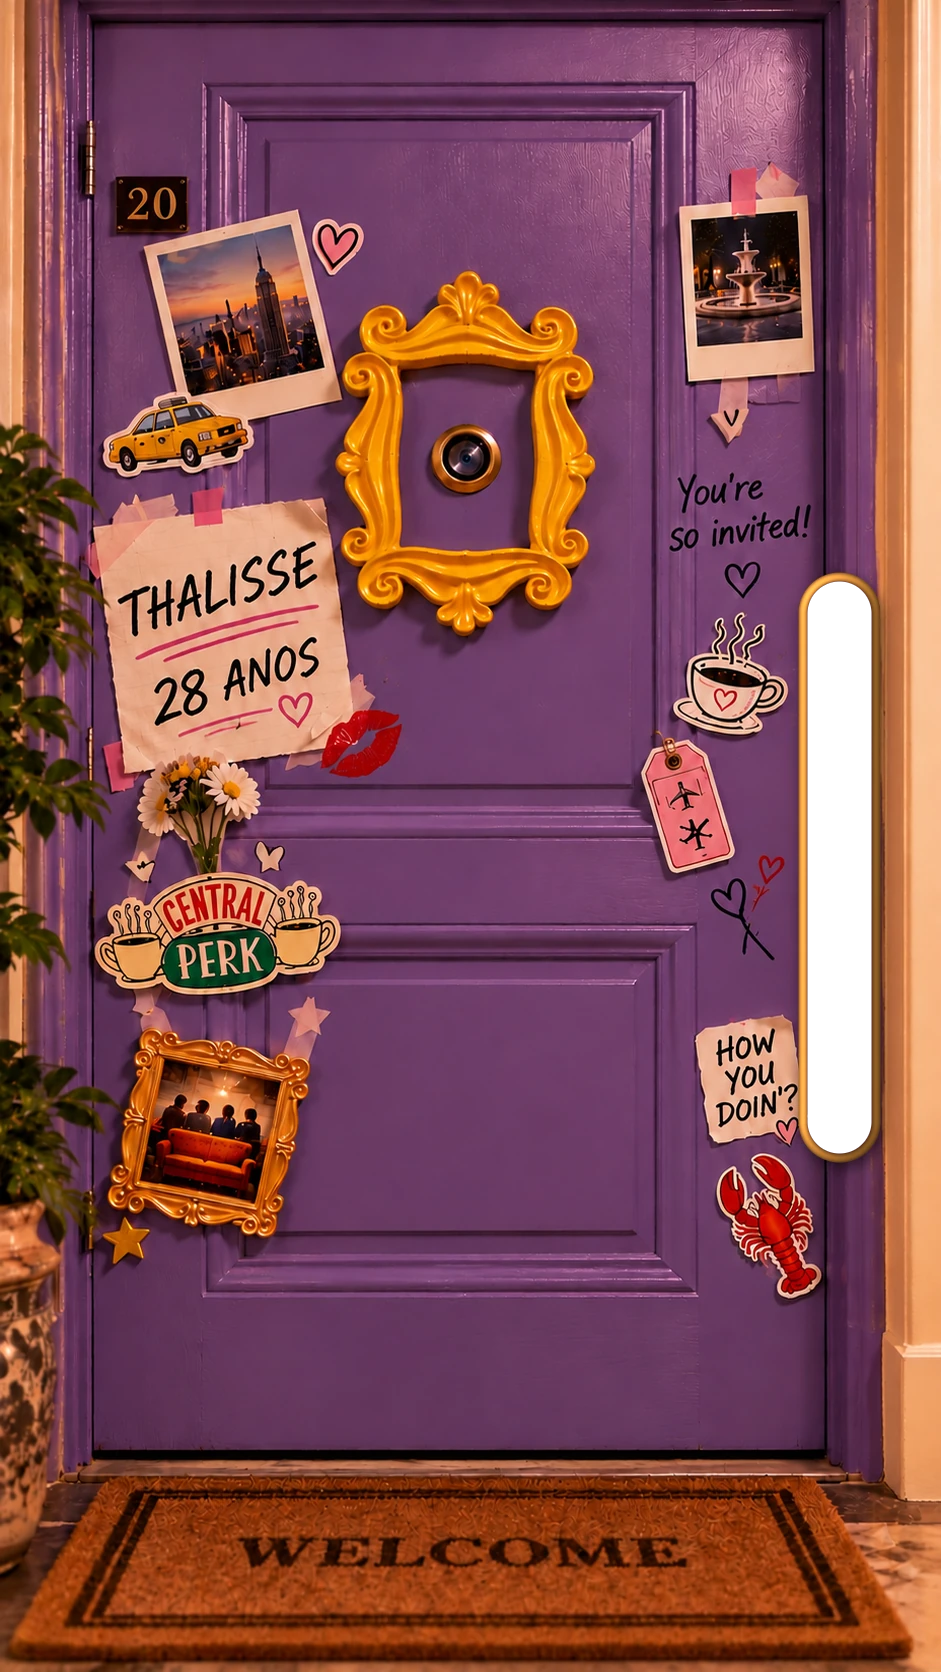
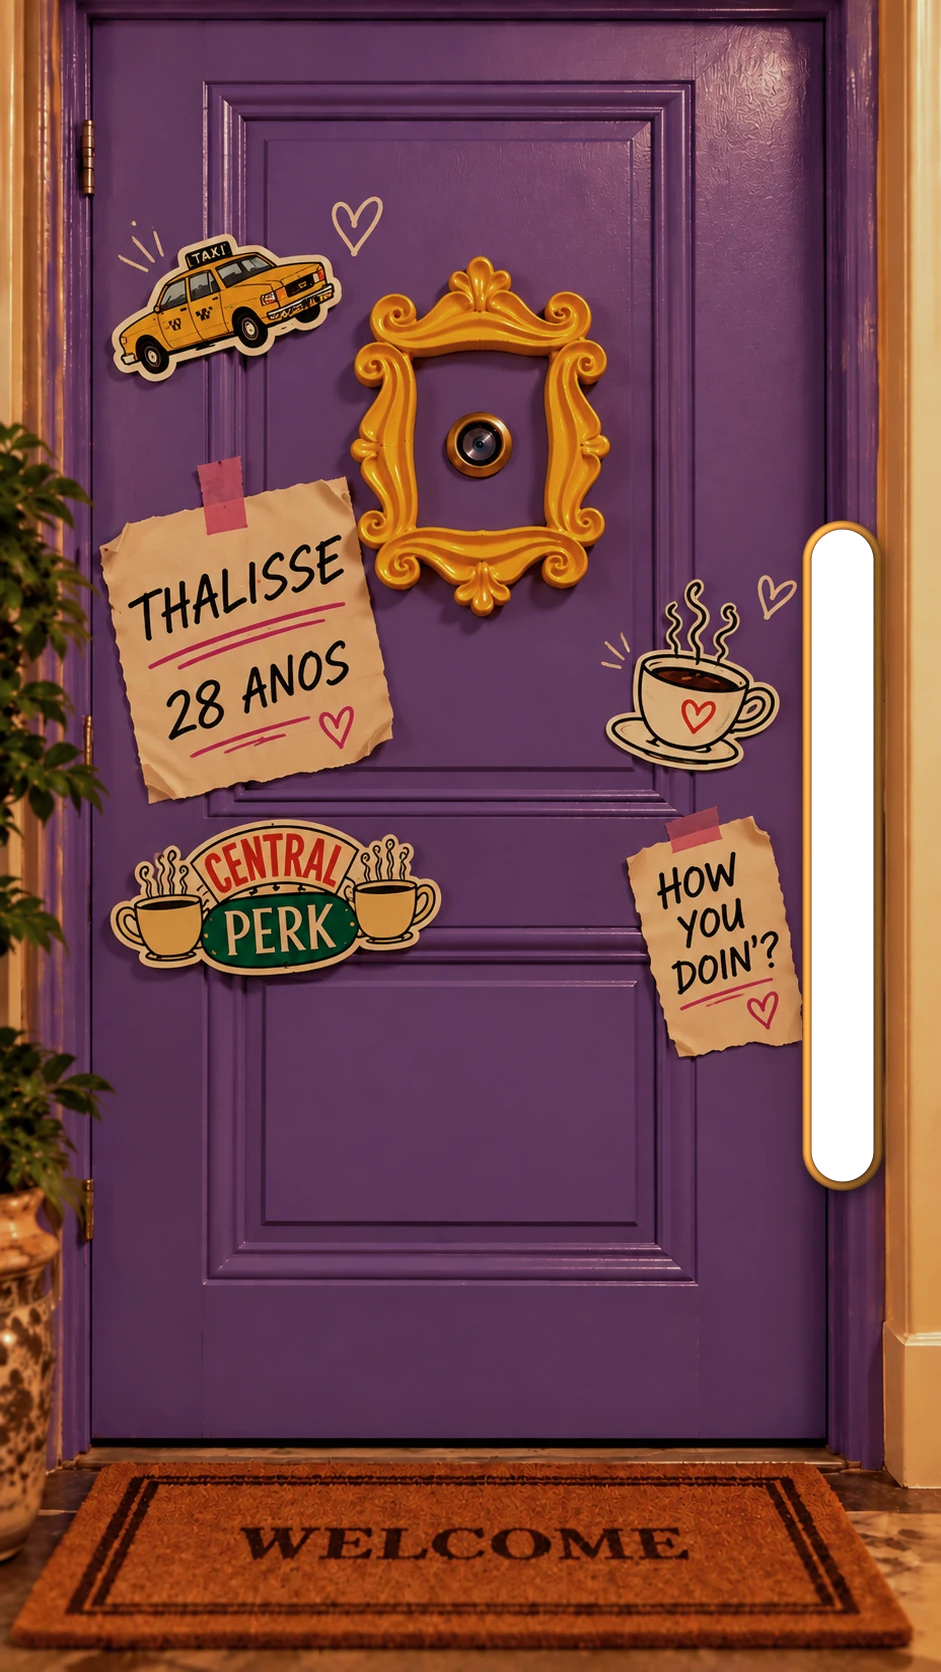
Nova capa (fenda maior) e página de informações; confirmação nova e mais sóbria
Claude-Session: https://claude.ai/code/session_01KR64gnoK5o2S4DwD11dqdm

diff --git a/index.html b/index.html
@@ -15,7 +15,7 @@
 <title>Convite Thalisse 28 anos</title>
 <link rel="preconnect" href="https://fonts.googleapis.com">
 <link rel="preconnect" href="https://fonts.gstatic.com" crossorigin>
-<link href="https://fonts.googleapis.com/css2?family=Caveat+Brush&family=Kalam:wght@300;400;700&display=swap" rel="stylesheet">
+<link href="https://fonts.googleapis.com/css2?family=Caveat+Brush&family=Kalam:wght@300;400;700&family=Josefin+Sans:wght@300;400;600&display=swap" rel="stylesheet">
 <style>
 [hidden]{display:none!important}
 /* Convite Revela (fenda vertical): a capa tem uma fenda recortada; ao puxar o pingente para cima, a capa sobe e revela a página de informações, que fica parada atrás. */
@@ -79,12 +79,12 @@ button,input,textarea{font:inherit;color:inherit}
 .cover>img{position:absolute;inset:0;width:100%;height:100%;display:block;pointer-events:none;user-select:none;-webkit-user-drag:none}
 
 /* recado escrito direto na porta, como o "You're so invited!" */
-.postit{position:absolute;left:50%;top:67.2%;width:34cqw;transform:translate(-50%,-50%) rotate(-2deg);font-family:var(--hand);font-weight:400;font-size:3.5cqw;line-height:1.25;text-align:center;color:#12061c;pointer-events:none;text-wrap:balance}
+.postit{position:absolute;left:46%;top:66.5%;width:34cqw;transform:translate(-50%,-50%) rotate(-2deg);font-family:var(--hand);font-weight:400;font-size:3.5cqw;line-height:1.25;text-align:center;color:#12061c;pointer-events:none;text-wrap:balance}
 .postit b{display:block;margin-top:.4cqw;font-size:4.6cqw;line-height:1;font-weight:400;color:#12061c}
 
 /* pingente: desliza para cima dentro da fenda */
 .pull{
-  position:absolute;left:89.2%;top:64.5%;width:15cqw;aspect-ratio:640/672;
+  position:absolute;left:89.5%;top:65.8%;width:15cqw;aspect-ratio:640/672;
   transform:translate(-50%,-50%);
   background:url(assets/puxador.webp) center/contain no-repeat;
   border:0;padding:0;cursor:grab;touch-action:none;
@@ -95,57 +95,51 @@ button,input,textarea{font:inherit;color:inherit}
 .pull:active{cursor:grabbing}
 .pull:focus-visible{outline:3px solid var(--gold-light);outline-offset:4px;border-radius:50%}
 
-/* ---------- confirmação de presença (arte + campos por cima) ---------- */
-.rsvp-art{position:absolute;inset:0;width:100%;height:100%;display:block;pointer-events:none;user-select:none}
-.rsvp-wrap{position:absolute;inset:0}
+/* ---------- confirmação, agradecimento e local: cartão escuro no tom da parede roxa ---------- */
+.rcard{
+  position:absolute;left:8%;right:8%;top:50%;transform:translateY(-50%);
+  display:flex;flex-direction:column;gap:3.2cqw;padding:8cqw 7cqw 7cqw;border-radius:4cqw;
+  background:linear-gradient(180deg,rgba(52,20,74,.9),rgba(34,12,52,.92));
+  border:.35cqw solid rgba(226,165,43,.75);box-shadow:0 3cqw 8cqw rgba(0,0,0,.55),inset 0 0 0 1.2cqw rgba(226,165,43,.08);
+  color:#f6ead8;font-family:'Josefin Sans','Segoe UI',sans-serif;
+}
+.rcard.center{align-items:center;text-align:center;gap:3.6cqw}
+.rcard[hidden]{display:none}
+.eyebrow{margin:0;text-align:center;font-family:var(--hand);font-weight:300;font-style:italic;font-size:4cqw;letter-spacing:.18em;text-transform:uppercase;color:#e9c277}
+.rt{margin:0;text-align:center;font-family:var(--display);font-weight:400;font-size:10.5cqw;line-height:1;color:#fff7e6}
+.gl{height:1px;width:46%;margin:.6cqw auto 1cqw;background:linear-gradient(90deg,transparent,#e2a52b,transparent)}
+.lb{display:block;margin:0 0 1.2cqw;font-size:3cqw;font-weight:600;letter-spacing:.2em;text-transform:uppercase;color:#e9c277}
+.lb em{font-style:normal;font-weight:300;letter-spacing:.08em;text-transform:none;color:rgba(246,234,216,.65)}
 .fld{
-  position:absolute;border:0;margin:0;border-radius:3cqw;background:#fde7cd;
-  font-family:var(--hand);font-size:4.4cqw;line-height:1.2;color:#3b1450;
-  box-shadow:inset 0 .3cqw .8cqw rgba(90,40,20,.18);
+  display:block;width:100%;border:0;border-bottom:.3cqw solid rgba(226,165,43,.7);border-radius:1.2cqw 1.2cqw 0 0;
+  background:rgba(255,255,255,.07);padding:2.4cqw 3cqw;font-family:'Josefin Sans','Segoe UI',sans-serif;font-weight:300;font-size:4.5cqw;line-height:1.3;color:#fff7e6;
 }
-.fld::placeholder{color:rgba(80,50,70,.55);font-style:italic}
-.fld:focus{outline:2px solid var(--gold);outline-offset:1px}
-#nome{left:25.5%;top:38.5%;width:57.5%;height:4.7%;padding:0 2.5cqw;border-radius:0 3cqw 3cqw 0;box-shadow:none}
-#recado{left:27.5%;top:73.6%;width:54%;height:7.5%;padding:1.6cqw 2.5cqw;resize:none;border-radius:0 3cqw 3cqw 0;box-shadow:none}
+.fld::placeholder{color:rgba(246,234,216,.45)}
+.fld:focus{outline:0;background:rgba(255,255,255,.12);border-bottom-color:#ffd86b}
+textarea.fld{resize:none;height:17cqw}
+.choices{display:grid;grid-template-columns:1fr 1fr;gap:2.6cqw}
 .pick{
-  position:absolute;top:49.2%;width:28.2%;height:18.6%;border:0;padding:0;margin:0;background:transparent;cursor:pointer;border-radius:5cqw;
+  min-height:11.5cqw;padding:1cqw 2cqw;border-radius:999px;cursor:pointer;
+  border:.3cqw solid rgba(226,165,43,.7);background:transparent;color:#f6ead8;
+  font-family:'Josefin Sans','Segoe UI',sans-serif;font-weight:400;font-size:3.8cqw;letter-spacing:.04em;line-height:1.1;transition:background .25s ease,color .25s ease,border-color .25s ease;
 }
-.pick.sim{left:21.8%}.pick.nao{left:53.5%}
-.pick::after{content:"";position:absolute;inset:0;border-radius:5cqw;transition:background .25s ease,box-shadow .25s ease}
-.pick.on::after{box-shadow:0 0 0 .8cqw var(--gold-light),0 0 5cqw 1.5cqw rgba(255,216,107,.75)}
-.pick.off::after{background:rgba(40,8,55,.55)}
-.pick:focus-visible{outline:3px solid #fff;outline-offset:2px}
-.pick .tag{position:absolute;left:50%;bottom:-3.6cqw;transform:translateX(-50%);font-family:var(--display);font-size:4.2cqw;color:var(--gold-light);white-space:nowrap;opacity:0;transition:opacity .25s ease;text-shadow:0 .3cqw .8cqw rgba(0,0,0,.6)}
-.pick.on .tag{opacity:1}
-.err{position:absolute;left:12%;right:12%;top:81.1%;margin:0;text-align:center;font-family:var(--hand);font-weight:700;font-size:3.3cqw;color:#ffb3a8;text-shadow:0 .2cqw .6cqw rgba(0,0,0,.6)}
-.act{
-  position:absolute;top:83.4%;height:4.8%;border-radius:999px;cursor:pointer;
-  font-family:var(--display);font-size:5.6cqw;letter-spacing:.02em;
-  display:flex;align-items:center;justify-content:center;text-decoration:none;
-}
-.act.voltar{left:23%;width:21%;background:rgba(59,15,77,.88);color:var(--gold-light);border:.5cqw solid var(--gold)}
-.act.enviar{left:47.5%;width:25%;background:linear-gradient(180deg,#ffe28a,#e2a52b 55%,#c98512);color:#3b1450;border:.5cqw solid #fff3c4;box-shadow:0 .8cqw 2cqw rgba(0,0,0,.4)}
-.act:active{filter:brightness(.9)}
-.act:focus-visible{outline:3px solid #fff;outline-offset:2px}
-.redir{position:absolute;left:14%;right:14%;top:89.6%;margin:0;text-align:center;font-family:var(--hand);font-size:3cqw;line-height:1.3;color:var(--cream);text-shadow:0 .2cqw .6cqw rgba(0,0,0,.6)}
-
-/* cartão de agradecimento / local (mesmo tema) */
-.card{
-  position:absolute;left:11%;right:11%;top:19%;bottom:24%;border-radius:6cqw;
-  background:linear-gradient(180deg,#fff0d8,#fbdcb5);
-  border:1cqw solid var(--gold);box-shadow:0 2cqw 6cqw rgba(0,0,0,.5),inset 0 0 0 .6cqw rgba(255,255,255,.55);
-  display:flex;flex-direction:column;align-items:center;justify-content:center;gap:3.2cqw;padding:6cqw;text-align:center;color:var(--ink);
-}
-.card .orn{color:#b8800c;font-size:4.4cqw;letter-spacing:.6em;text-indent:.6em}
-.card .big{font-family:var(--display);font-size:11cqw;line-height:1.05}
-.card .soft{margin:0;font-size:4.6cqw;line-height:1.35;font-weight:700}
-.card .rule{height:1px;width:60%;background:linear-gradient(90deg,transparent,#b8800c,transparent)}
-.card .acts{display:grid;gap:2.4cqw;width:100%;margin-top:1cqw}
-.btn{display:flex;align-items:center;justify-content:center;min-height:11cqw;padding:1cqw 5cqw;border-radius:999px;font-family:var(--display);font-size:5.4cqw;text-decoration:none;cursor:pointer}
-.btn.primary{border:.5cqw solid #fff3c4;color:var(--ink);background:linear-gradient(180deg,#ffe28a,#e2a52b 55%,#c98512);box-shadow:0 .8cqw 2cqw rgba(0,0,0,.3)}
-.btn.ghost{border:.5cqw solid #b8800c;background:transparent;color:var(--ink)}
-.btn:focus-visible{outline:3px solid var(--plum);outline-offset:2px}
-.ttlmap{position:absolute;left:8%;right:8%;top:17%;margin:0;text-align:center;font-family:var(--display);font-size:11cqw;color:var(--gold-light);text-shadow:0 .5cqw 1.2cqw rgba(0,0,0,.6)}
+.pick.on{background:linear-gradient(180deg,#e58b3c,#b9561f);border-color:#ffd9a0;color:#fff;font-weight:600}
+.pick.off{opacity:.55}
+.pick:focus-visible{outline:2px solid #ffd86b;outline-offset:2px}
+.err{margin:0;text-align:center;font-size:3.5cqw;font-weight:600;color:#ffb3a8}
+.redir{margin:0;text-align:center;font-size:3cqw;line-height:1.4;font-weight:300;color:rgba(246,234,216,.75)}
+.acts2{display:grid;grid-template-columns:1fr 1.5fr;gap:2.6cqw;margin-top:1.4cqw}
+.btn{display:flex;align-items:center;justify-content:center;min-height:12cqw;padding:1cqw 5cqw;border-radius:999px;font-family:'Josefin Sans','Segoe UI',sans-serif;font-weight:600;font-size:3.3cqw;letter-spacing:.2em;text-transform:uppercase;text-decoration:none;cursor:pointer;width:100%}
+.btn.primary{border:.3cqw solid #ffd9a0;color:#fff;background:linear-gradient(180deg,#e58b3c,#b9561f);box-shadow:0 1cqw 2.4cqw rgba(0,0,0,.4)}
+.btn.ghost{border:.3cqw solid rgba(226,165,43,.75);background:transparent;color:#f6ead8}
+.btn:active{filter:brightness(.92)}
+.btn:focus-visible{outline:2px solid #ffd86b;outline-offset:2px}
+.rcard .orn{color:#e2a52b;font-size:4cqw;letter-spacing:.6em;text-indent:.6em}
+.rcard .big{font-family:var(--display);font-size:10.5cqw;line-height:1.05;color:#fff7e6}
+.rcard .soft{margin:0;font-weight:300;font-size:4.6cqw;line-height:1.45;color:#f6ead8}
+.rcard .soft b{font-weight:600}
+.rcard .rule{height:1px;width:46%;background:linear-gradient(90deg,transparent,#e2a52b,transparent)}
+.rcard .acts{display:grid;gap:2.6cqw;width:100%;margin-top:1.4cqw}
 
 @media (prefers-reduced-motion:reduce){*,*::before,*::after{transition-duration:.01ms!important}}
 </style>
@@ -157,9 +151,9 @@ button,input,textarea{font:inherit;color:inherit}
   <div class="bg" id="main-bg" style="background-image:url(assets/capa.webp)"></div>
   <div class="stage" id="stage">
     <div class="sheet" id="sheet">
-      <img class="page" src="assets/informacoes.jpg" alt="Convite: aquele em que a Thalisse faz 28 anos. Dia 10 de dezembro, às 19 horas." width="941" height="1672" decoding="async">
-      <button class="hot" id="btn-confirm" type="button" style="--x:31.5%;--y:37.4%;--w:17.5%;--h:14.7%" aria-label="Confirmar presença"></button>
-      <button class="hot" id="btn-map" type="button" style="--x:51.5%;--y:37.4%;--w:17.5%;--h:14.7%" aria-label="Local da festa"></button>
+      <img class="page" src="assets/informacoes.jpg" alt="Convite: aquele em que a Thalisse faz 28 anos. Dia 10 de dezembro, às 18 horas." width="941" height="1672" decoding="async">
+      <button class="hot" id="btn-confirm" type="button" style="--x:18.6%;--y:58.9%;--w:45.2%;--h:6.5%" aria-label="Confirmar presença"></button>
+      <button class="hot" id="btn-map" type="button" style="--x:18.3%;--y:66.7%;--w:45.5%;--h:6.5%" aria-label="Local da festa"></button>
       <button class="back" id="btn-cover" type="button" tabindex="-1">↓ voltar para a capa</button>
     </div>
 
@@ -173,22 +167,35 @@ button,input,textarea{font:inherit;color:inherit}
 
 <!-- confirmar presença -->
 <section class="screen" id="rsvp" aria-hidden="true">
-  <div class="bg dark" style="background-image:url(assets/rsvp.webp)"></div>
-  <div class="stage">
-    <img class="rsvp-art" src="assets/rsvp.webp" alt="" width="941" height="1672" decoding="async">
-    <form class="rsvp-wrap" id="rsvp-form" novalidate>
-      <label class="sr" for="nome" style="position:absolute;left:-9999px">Seu nome</label>
-      <input class="fld" id="nome" name="nome" type="text" placeholder="Digite seu nome aqui..." autocomplete="name" maxlength="60">
-      <button class="pick sim" type="button" id="p-sim" role="radio" aria-checked="false" aria-label="Sim, eu vou"><span class="tag">Eu vou!</span></button>
-      <button class="pick nao" type="button" id="p-nao" role="radio" aria-checked="false" aria-label="Não poderei ir"><span class="tag">Não vou dessa vez</span></button>
-      <label class="sr" for="recado" style="position:absolute;left:-9999px">Recado (opcional)</label>
-      <textarea class="fld" id="recado" name="recado" placeholder="Escreva seu recado..." maxlength="140"></textarea>
+  <div class="bg dark" style="background-image:url(assets/informacoes.jpg)"></div>
+  <div class="stage form">
+    <form class="rcard" id="rsvp-form" novalidate>
+      <p class="eyebrow">aquele em que você</p>
+      <h2 class="rt">confirma presença</h2>
+      <div class="gl"></div>
+      <div>
+        <label class="lb" for="nome">Seu nome</label>
+        <input class="fld" id="nome" name="nome" type="text" placeholder="Nome e sobrenome" autocomplete="name" maxlength="60">
+      </div>
+      <div>
+        <span class="lb" id="lg-resp">Você vai?</span>
+        <div class="choices" role="radiogroup" aria-labelledby="lg-resp">
+          <button class="pick sim" type="button" id="p-sim" role="radio" aria-checked="false">Eu vou!</button>
+          <button class="pick nao" type="button" id="p-nao" role="radio" aria-checked="false">Não poderei ir</button>
+        </div>
+      </div>
+      <div>
+        <label class="lb" for="recado">Deixe um recado <em>(opcional)</em></label>
+        <textarea class="fld" id="recado" name="recado" placeholder="Escreva seu recado..." maxlength="140"></textarea>
+      </div>
       <p class="err" id="rsvp-err" role="alert" hidden></p>
-      <button class="act voltar" type="button" data-back>Voltar</button>
-      <button class="act enviar" type="submit">Enviar</button>
       <p class="redir" id="redir" hidden>Ao enviar, você será levado ao WhatsApp para finalizar a sua confirmação.</p>
+      <div class="acts2">
+        <button class="btn ghost" type="button" data-back>Voltar</button>
+        <button class="btn primary" type="submit">Enviar</button>
+      </div>
     </form>
-    <div class="card" id="thanks" hidden>
+    <div class="rcard center" id="thanks" hidden>
       <span class="orn" aria-hidden="true">✦ ✦ ✦</span>
       <div class="big" id="thanks-title">Que alegria!</div>
       <div class="rule"></div>
@@ -205,11 +212,11 @@ button,input,textarea{font:inherit;color:inherit}
 <section class="screen" id="map" aria-hidden="true">
   <div class="bg dark" style="background-image:url(assets/informacoes.jpg)"></div>
   <div class="stage form">
-    <h2 class="ttlmap">Local da festa</h2>
-    <div class="card" style="top:30%;bottom:26%">
+    <div class="rcard center">
+      <p class="eyebrow">local da festa</p>
       <span class="orn" aria-hidden="true">✦ ✦ ✦</span>
       <div class="soft">A comemoração será</div>
-      <div class="big" id="map-place" style="font-size:9.4cqw">Local a confirmar</div>
+      <div class="big" id="map-place">Local a confirmar</div>
       <p class="soft" id="map-addr" hidden></p>
       <div class="rule"></div>
       <p class="soft" id="map-when" hidden></p>
@@ -232,7 +239,7 @@ button,input,textarea{font:inherit;color:inherit}
     endereco:'',
     mapa:false,                    /* true = mostra "Abrir no mapa" (precisa de endereço) */
     data:'10 de dezembro',
-    hora:'19h',
+    hora:'18h',
     whatsapp:'',                   /* ex.: '5585999999999' */
     musica:'assets/musica.mp3'
   };
@@ -270,7 +277,7 @@ button,input,textarea{font:inherit;color:inherit}
   /* ====== pingente: desliza para cima dentro da fenda enquanto a capa sobe ====== */
   /* v = quanto o dedo subiu (px). O pingente acompanha o dedo: parte é ele correndo dentro da fenda (r),
      parte é a capa subindo (c = K*v). */
-  var Y_START=64.5, TRAVEL=25.3, K=.3, THRESH=TRAVEL/100/(1-K);   /* Y_START e TRAVEL em % da altura; THRESH em fração da altura */
+  var Y_START=65.8, TRAVEL=29.3, K=.3, THRESH=TRAVEL/100/(1-K);   /* Y_START e TRAVEL em % da altura; THRESH em fração da altura */
   var s=0,s0=0,startY=0,dragging=false,H=0;
   function measure(){H=stage.getBoundingClientRect().height}
   function parts(v){return {r:Math.min(v*(1-K),TRAVEL/100*H),c:v*K}}
